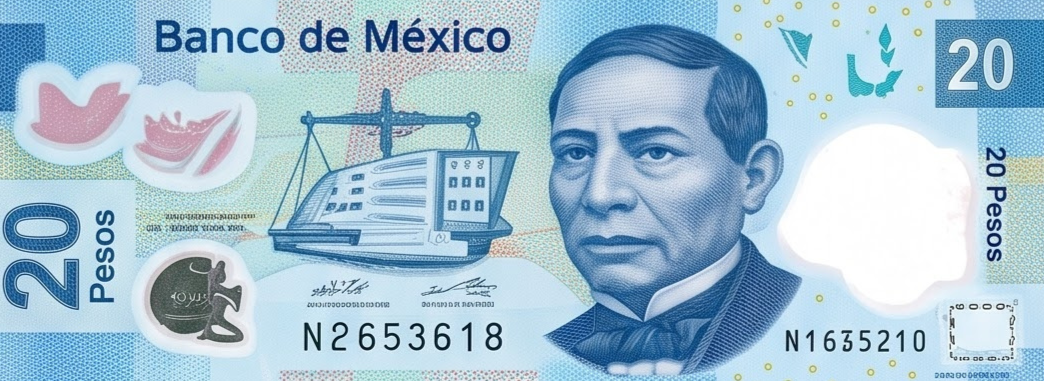
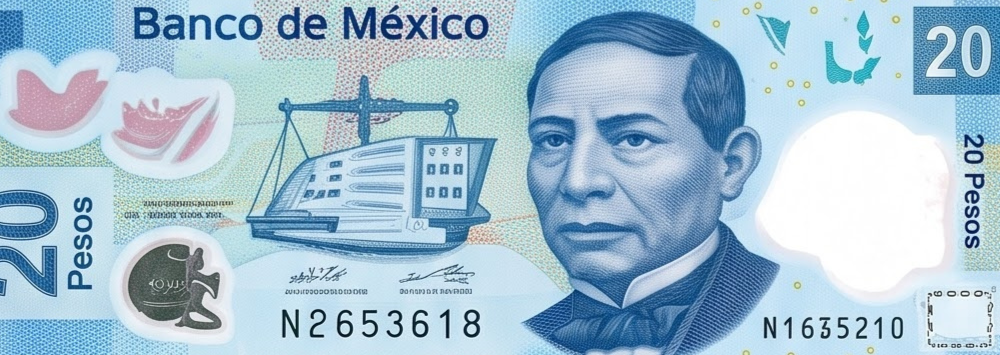
Recorta aún más ajustado las fotos de billetes, sin margen sobrante

diff --git a/web/src/components/DialogoCobro.jsx b/web/src/components/DialogoCobro.jsx
@@ -181,7 +181,7 @@ export default function DialogoCobro({ abierto, resumen, onCancelar, onConfirmar
                   <img
                     src={imagen}
                     alt={`Billete de ${dinero(valor)}`}
-                    className="w-24 aspect-[2.75] object-cover object-center rounded-sm bg-bg"
+                    className="w-24 aspect-[2.85] object-cover object-center rounded-sm bg-bg"
                     draggable="false"
                   />
                   <span className="text-[0.7rem] font-semibold text-text-muted [font-variant-numeric:tabular-nums] group-hover:text-primary">
